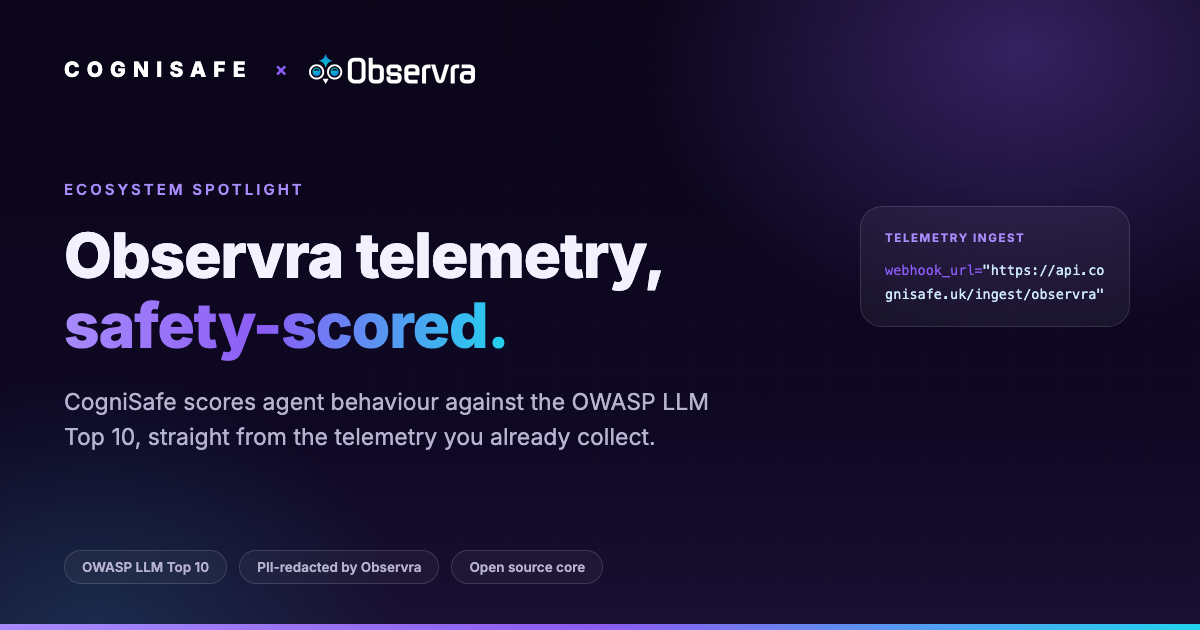
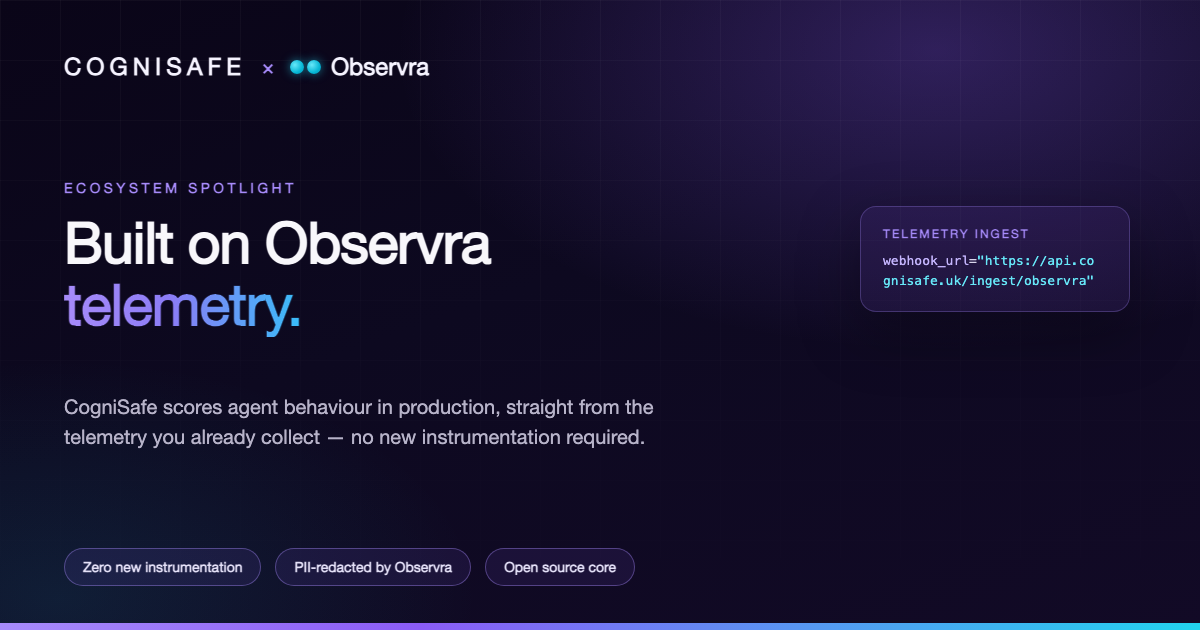
blog(cognisafe): regenerate hero image without OWASP mention

diff --git a/blog/cognisafe-observra-integration/index.html b/blog/cognisafe-observra-integration/index.html
@@ -102,7 +102,7 @@ footer{border-top:1px solid var(--bd);background:var(--bg2);padding:50px 0 38px}
 .sponsor-band a.exa:hover .exa-logo{opacity:1}
 .sponsor-note{max-width:540px;margin:2px 0 0;color:var(--mut);font-size:14.5px;line-height:1.6}
 @media(max-width:600px){h1{font-size:28px}.foot-grid{gap:30px}}
-</style><script data-goatcounter="https://open-agent-ai-security.goatcounter.com/count" async src="../../assets/count.js"></script><script defer src="https://static.cloudflareinsights.com/beacon.min.js" data-cf-beacon='{"token": "223642421cad463daf91bd9429a5f9a0"}'></script></head><body><header class="nav"><div class="wrap nav-inner"><a class="brand" href="../../"><img class="logo" src="../../assets/community-logo-dark-background.svg" alt="Open Agent &amp; AI Security Community" width="131" height="30"></a><nav class="nav-links"><a href="../../#projects">Projects</a><a href="../../#join">Join</a><a href="../../#mission">Mission &amp; vision</a><a href="../../#purpose">Purpose</a><a href="../" class="active">Blog</a></nav><div class="nav-cta"><a class="btn btn-ghost" href="https://github.com/open-agent-ai-security" target="_blank" rel="noopener"><svg width="16" height="16" viewBox="0 0 24 24" fill="currentColor" aria-hidden="true"><path d="M12 .5C5.7.5.5 5.7.5 12c0 5.1 3.3 9.4 7.9 10.9.6.1.8-.2.8-.6v-2c-3.2.7-3.9-1.4-3.9-1.4-.5-1.3-1.3-1.7-1.3-1.7-1.1-.7.1-.7.1-.7 1.2.1 1.8 1.2 1.8 1.2 1 1.8 2.8 1.3 3.5 1 .1-.8.4-1.3.7-1.6-2.6-.3-5.3-1.3-5.3-5.7 0-1.3.5-2.3 1.2-3.1-.1-.3-.5-1.5.1-3.1 0 0 1-.3 3.3 1.2a11.5 11.5 0 0 1 6 0C17.3 4.7 18.3 5 18.3 5c.6 1.6.2 2.8.1 3.1.8.8 1.2 1.8 1.2 3.1 0 4.4-2.7 5.4-5.3 5.7.4.4.8 1.1.8 2.2v3.3c0 .4.2.7.8.6 4.6-1.5 7.9-5.8 7.9-10.9C23.5 5.7 18.3.5 12 .5z"/></svg> GitHub</a></div></div></header><main><div class="content"><img class="post-hero" src="../images/cognisafe-observra.png" alt="CogniSafe × Observra: Observra telemetry, safety-scored."><p class="eyebrow">Community blog</p><h1>Ecosystem Spotlight: CogniSafe Scores AI Safety from Observra Telemetry</h1><div class="meta">August 09, 2026 &middot; Open Agent and AI Security Community &middot; 2 min read &middot; <span class="tag">community</span><span class="tag">observra</span><span class="tag">ecosystem</span></div><ul class="toc"><li><a href="#the-interesting-part-why-observra">The interesting part: why Observra</a></li><li><a href="#how-the-integration-works">How the integration works</a></li><li><a href="#why-this-matters">Why this matters</a></li></ul><p>One of the best things about building open source is watching other people build on it. Today's example: <a href="https://cognisafe.uk/">CogniSafe</a>, a UK-based AI trust, safety and assurance platform, has published an official <a href="https://docs.cognisafe.uk/integrations/telemetry-ingest">Observra integration</a> — and specifically chose Observra as the way to get telemetry out of running agents.</p>
+</style><script data-goatcounter="https://open-agent-ai-security.goatcounter.com/count" async src="../../assets/count.js"></script><script defer src="https://static.cloudflareinsights.com/beacon.min.js" data-cf-beacon='{"token": "223642421cad463daf91bd9429a5f9a0"}'></script></head><body><header class="nav"><div class="wrap nav-inner"><a class="brand" href="../../"><img class="logo" src="../../assets/community-logo-dark-background.svg" alt="Open Agent &amp; AI Security Community" width="131" height="30"></a><nav class="nav-links"><a href="../../#projects">Projects</a><a href="../../#join">Join</a><a href="../../#mission">Mission &amp; vision</a><a href="../../#purpose">Purpose</a><a href="../" class="active">Blog</a></nav><div class="nav-cta"><a class="btn btn-ghost" href="https://github.com/open-agent-ai-security" target="_blank" rel="noopener"><svg width="16" height="16" viewBox="0 0 24 24" fill="currentColor" aria-hidden="true"><path d="M12 .5C5.7.5.5 5.7.5 12c0 5.1 3.3 9.4 7.9 10.9.6.1.8-.2.8-.6v-2c-3.2.7-3.9-1.4-3.9-1.4-.5-1.3-1.3-1.7-1.3-1.7-1.1-.7.1-.7.1-.7 1.2.1 1.8 1.2 1.8 1.2 1 1.8 2.8 1.3 3.5 1 .1-.8.4-1.3.7-1.6-2.6-.3-5.3-1.3-5.3-5.7 0-1.3.5-2.3 1.2-3.1-.1-.3-.5-1.5.1-3.1 0 0 1-.3 3.3 1.2a11.5 11.5 0 0 1 6 0C17.3 4.7 18.3 5 18.3 5c.6 1.6.2 2.8.1 3.1.8.8 1.2 1.8 1.2 3.1 0 4.4-2.7 5.4-5.3 5.7.4.4.8 1.1.8 2.2v3.3c0 .4.2.7.8.6 4.6-1.5 7.9-5.8 7.9-10.9C23.5 5.7 18.3.5 12 .5z"/></svg> GitHub</a></div></div></header><main><div class="content"><img class="post-hero" src="../images/cognisafe-observra.png" alt="CogniSafe × Observra: Built on Observra telemetry."><p class="eyebrow">Community blog</p><h1>Ecosystem Spotlight: CogniSafe Scores AI Safety from Observra Telemetry</h1><div class="meta">August 09, 2026 &middot; Open Agent and AI Security Community &middot; 2 min read &middot; <span class="tag">community</span><span class="tag">observra</span><span class="tag">ecosystem</span></div><ul class="toc"><li><a href="#the-interesting-part-why-observra">The interesting part: why Observra</a></li><li><a href="#how-the-integration-works">How the integration works</a></li><li><a href="#why-this-matters">Why this matters</a></li></ul><p>One of the best things about building open source is watching other people build on it. Today's example: <a href="https://cognisafe.uk/">CogniSafe</a>, a UK-based AI trust, safety and assurance platform, has published an official <a href="https://docs.cognisafe.uk/integrations/telemetry-ingest">Observra integration</a> — and specifically chose Observra as the way to get telemetry out of running agents.</p>
 <h2 id="the-interesting-part-why-observra">The interesting part: why Observra</h2>
 <p>CogniSafe runs a runtime proxy that watches the whole agentic execution path (model calls, tool calls, inter-agent messages) and scores it for risk. To do that, it needs a real-time feed of what an agent is actually doing. Rather than build and maintain their own instrumentation across every framework a customer might run, they built on top of the telemetry teams are already capturing with Observra.</p>
 <h2 id="how-the-integration-works">How the integration works</h2>

diff --git a/blog/posts/2026-08-09-cognisafe-observra-integration.md b/blog/posts/2026-08-09-cognisafe-observra-integration.md
@@ -6,7 +6,7 @@ summary: UK-based CogniSafe, an AI trust and safety platform, has adopted Observ
 tags: community, observra, ecosystem
 published: yes
 image: cognisafe-observra.png
-image_alt: "CogniSafe × Observra: Observra telemetry, safety-scored."
+image_alt: "CogniSafe × Observra: Built on Observra telemetry."
 ---
 
 One of the best things about building open source is watching other people build on it. Today's example: [CogniSafe](https://cognisafe.uk/), a UK-based AI trust, safety and assurance platform, has published an official [Observra integration](https://docs.cognisafe.uk/integrations/telemetry-ingest) — and specifically chose Observra as the way to get telemetry out of running agents.
